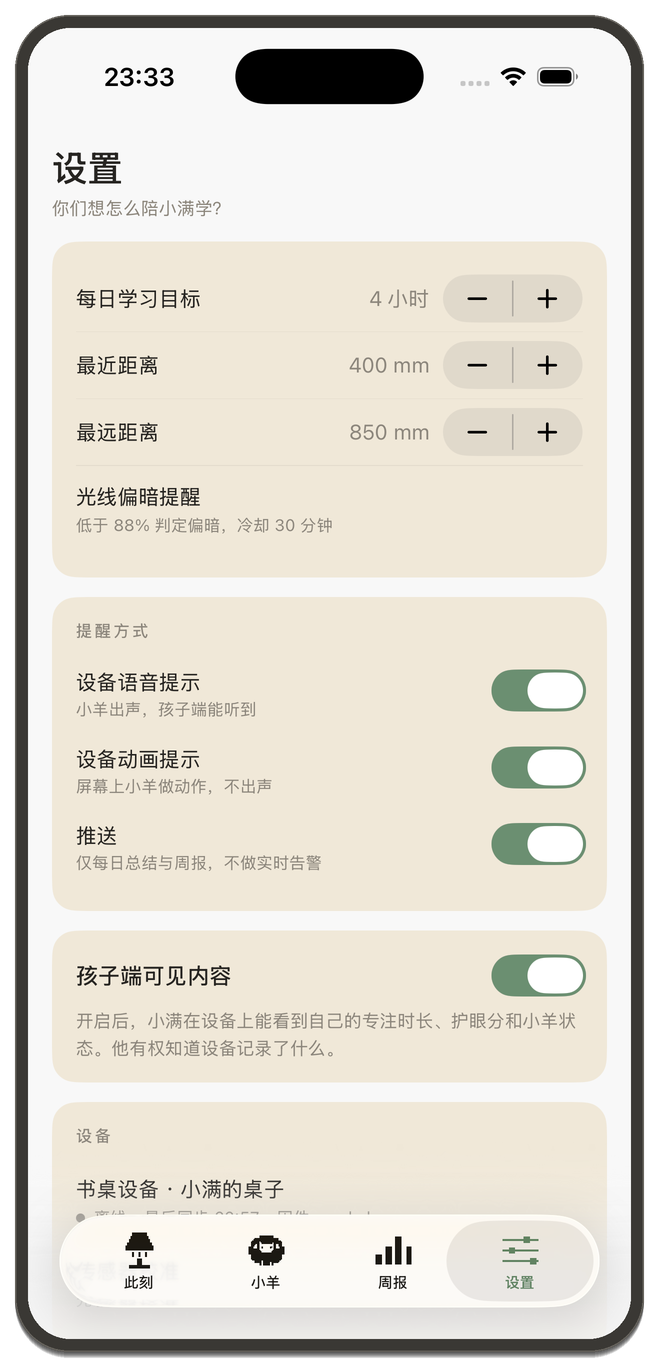
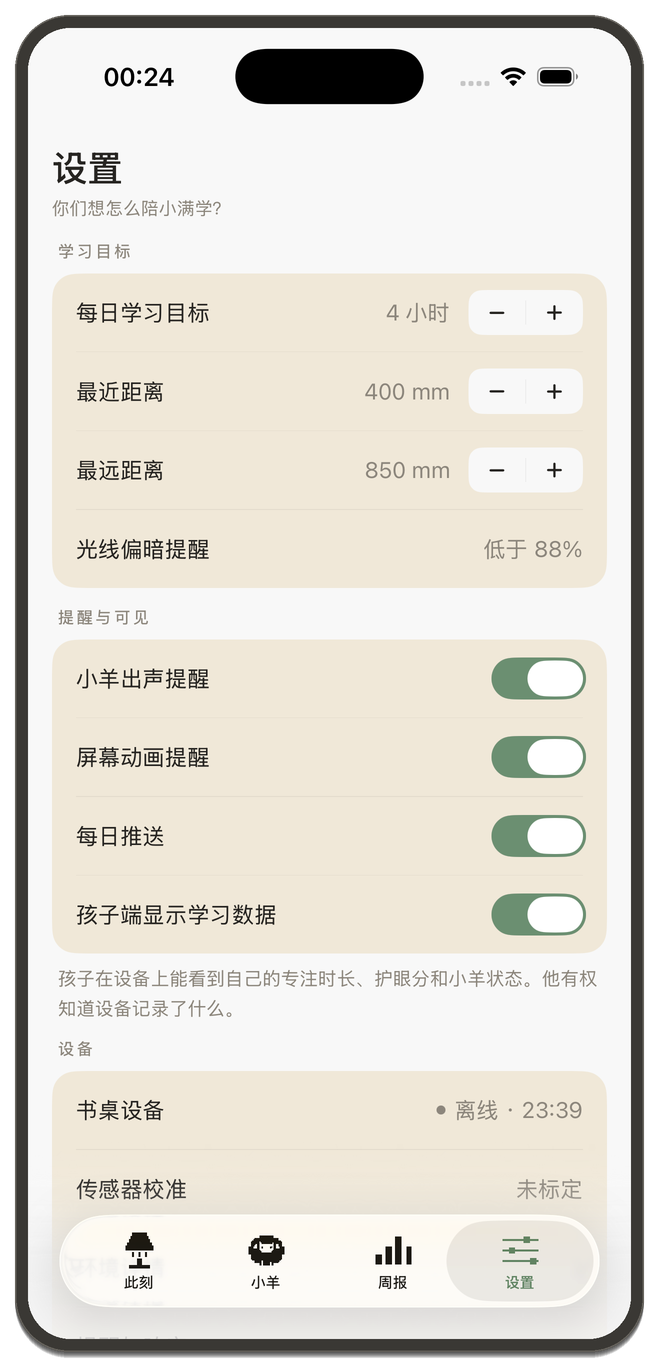
设置页改成分组列表，砍掉九处说明小字
原来八块奶油色块浮在近白底上，是全 App 黄色占比最高的一屏。「此刻」页
也是卡片堆，但那些卡片每张有一个大数字当锚点，色块是在给数据做底；设置页
卡片里全是「标题 + 副标题 + 控件」的行，行本身已经有分隔线做结构，再包一层
色块就是双重容器。而且四张卡三种结构：两张有组标题、两张没有。

- 组标题移到卡片外面，卡片只装行。八块合并成四组：
  学习目标 / 提醒与可见 / 设备 / 档案
- 「环境详情」「提醒与响应」两个独立色块并进「设备」组
- 说明性小字从九处砍到一处。开关名字改到自解释就不需要副标题：
  设备语音提示 → 小羊出声提醒，设备动画提示 → 屏幕动画提醒，推送 → 每日推送
  光线阈值那行改成右侧给值，和上面三行一致
  重设的说明移进确认弹窗（弹窗本来就有 message）
  唯一保留的是知情权那句 —— 它讲的是产品态度，不是在解释控件
- 行文字 14 → 15pt
- 自绘加减替换系统 Stepper：它的灰胶囊不属于这套色板里任何一个色，
  三个并排像三块补丁

putSettings 改成按下标取开关，不按标签文字 —— 标签文案一改匹配就错位。
已验证：关掉「每日推送」后端只有 push_on 变 0，另外三个没动。

diff --git a/apps/ios/Sources/Views/SettingsView.swift b/apps/ios/Sources/Views/SettingsView.swift
@@ -1,7 +1,14 @@
 import SwiftUI
 
-/// 把知情权放在设置的中间位置：「孩子端可见内容」用奶油卡片单独抬出来。
-/// 设备离线时不假装有数据。
+/// 设置页用分组列表，不用卡片堆。
+///
+/// 原来的问题：八块奶油色块浮在近白底上，是全 App 黄色占比最高的一屏。
+/// 「此刻」页也是卡片堆，但那些卡片每张有一个大数字当锚点，色块是在给数据
+/// 做底；设置页卡片里全是「标题 + 副标题 + 控件」的行，行本身已经有分隔线
+/// 做结构了，再包一层色块就是双重容器。
+///
+/// 现在：组标题放在卡片外面（浅底上），卡片只装行。八块合并成四组。
+/// 说明性小字从九处砍到一处 —— 控件名起对了就不需要副标题。
 struct SettingsView: View {
     @EnvironmentObject var store: Store
     @EnvironmentObject var profile: Profile
@@ -18,166 +25,196 @@ struct SettingsView: View {
             set: { v in
                 guard draft[keyPath: key] != v else { return }
                 draft[keyPath: key] = v
-                let next = draft
-                saving = true
-                Task {
-                    await store.saveSettings(next)
-                    saving = false
-                }
+                push()
             })
+    }
+
+    private func push() {
+        let next = draft
+        saving = true
+        Task { await store.saveSettings(next); saving = false }
     }
 
     var body: some View {
         let s = draft
         Page(title: "设置", sub: "你们想怎么陪\(profile.displayName)学？") {
-            Card {
-                VStack(spacing: 0) {
-                    Stepper(value: bind(\.goalHours), in: 1...12) {
-                        HStack {
-                            Text("每日学习目标").font(Theme.sans(14)).foregroundStyle(Theme.ink)
-                            Spacer()
-                            Text("\(s.goalHours) 小时").font(Theme.sans(14)).foregroundStyle(Theme.muted)
-                        }
-                    }
-                    .padding(.vertical, 6)
-                    div()
-                    Stepper(value: bind(\.distanceMin), in: 250...600, step: 25) {
-                        HStack {
-                            Text("最近距离").font(Theme.sans(14)).foregroundStyle(Theme.ink)
-                            Spacer()
-                            Text("\(s.distanceMin) mm").font(Theme.sans(14)).foregroundStyle(Theme.muted)
-                        }
-                    }
-                    .padding(.vertical, 6)
-                    div()
-                    Stepper(value: bind(\.distanceMax), in: 600...1200, step: 25) {
-                        HStack {
-                            Text("最远距离").font(Theme.sans(14)).foregroundStyle(Theme.ink)
-                            Spacer()
-                            Text("\(s.distanceMax) mm").font(Theme.sans(14)).foregroundStyle(Theme.muted)
-                        }
-                    }
-                    .padding(.vertical, 6)
-                    div()
-                    VStack(alignment: .leading, spacing: 4) {
-                        HStack {
-                            Text("光线偏暗提醒").font(Theme.sans(14)).foregroundStyle(Theme.ink)
-                            Spacer()
-                        }
-                        Text(s.lowLightHint).font(Theme.sans(11)).foregroundStyle(Theme.muted)
-                    }
-                    .padding(.vertical, 12)
-                }
+
+            group("学习目标") {
+                stepRow("每日学习目标", "\(s.goalHours) 小时",
+                        bind(\.goalHours), 1...12, 1)
+                div()
+                stepRow("最近距离", "\(s.distanceMin) mm",
+                        bind(\.distanceMin), 250...600, 25)
+                div()
+                stepRow("最远距离", "\(s.distanceMax) mm",
+                        bind(\.distanceMax), 600...1200, 25)
+                div()
+                plainRow("光线偏暗提醒", lightValue)
             }
 
-            Card {
-                VStack(alignment: .leading, spacing: 0) {
-                    Label2(t: "提醒方式").padding(.bottom, 10)
-                    ForEach(Array(s.channels.enumerated()), id: \.element.id) { i, c in
-                        HStack(alignment: .top) {
-                            VStack(alignment: .leading, spacing: 3) {
-                                Text(c.label).font(Theme.sans(14)).foregroundStyle(Theme.ink)
-                                Text(c.hint).font(Theme.sans(11)).foregroundStyle(Theme.muted)
-                            }
-                            Spacer()
-                            Toggle("", isOn: Binding(
-                                get: { draft.channels[i].on },
-                                set: { v in
-                                    guard draft.channels[i].on != v else { return }
-                                    draft.channels[i].on = v
-                                    let next = draft
-                                    saving = true
-                                    Task { await store.saveSettings(next); saving = false }
-                                })).labelsHidden().tint(Theme.accent)
-                        }
-                        .padding(.vertical, 9)
-                    }
-                }
-            }
-
-            // 知情权 —— 单独抬出来
-            Card {
-                VStack(alignment: .leading, spacing: 9) {
-                    HStack {
-                        Text("孩子端可见内容").font(Theme.sans(15, .medium)).foregroundStyle(Theme.ink)
-                        Spacer()
-                        Toggle("", isOn: bind(\.childVisible)).labelsHidden().tint(Theme.accent)
-                    }
-                    Text("开启后，\(profile.displayName)在设备上能看到自己的专注时长、护眼分和小羊状态。他有权知道设备记录了什么。")
-                        .font(Theme.sans(12)).foregroundStyle(Theme.muted).lineSpacing(4)
-                }
-            }
-
-            Card {
-                VStack(alignment: .leading, spacing: 0) {
-                    Label2(t: "设备").padding(.bottom, 10)
-                    VStack(alignment: .leading, spacing: 4) {
-                        Text(s.deviceName).font(Theme.sans(14)).foregroundStyle(Theme.ink)
-                        HStack(spacing: 6) {
-                            Circle().fill(store.snapshot.link == .online ? Theme.accent : Theme.muted)
-                                .frame(width: 6, height: 6)
-                            Text(store.snapshot.link == .online
-                                 ? "在线 · \(store.snapshot.lastSync) 同步 · 固件 \(s.firmware)"
-                                 : "离线 · 最后同步 \(store.snapshot.lastSync) · 固件 \(s.firmware)")
-                                .font(Theme.sans(11)).foregroundStyle(Theme.muted)
-                        }
-                    }
-                    .padding(.vertical, 10)
+            group("提醒与可见") {
+                ForEach(Array(s.channels.enumerated()), id: \.element.id) { i, c in
+                    toggleRow(c.label, Binding(
+                        get: { draft.channels.indices.contains(i) ? draft.channels[i].on : false },
+                        set: { v in
+                            guard draft.channels.indices.contains(i),
+                                  draft.channels[i].on != v else { return }
+                            draft.channels[i].on = v
+                            push()
+                        }))
                     div()
-                    VStack(alignment: .leading, spacing: 4) {
-                        Text("传感器校准").font(Theme.sans(14)).foregroundStyle(Theme.ink)
-                        Text(s.calibrated ? "已校准" : "光敏未标定 · 校准后才能显示照度数值")
-                            .font(Theme.sans(11)).foregroundStyle(Theme.muted)
-                    }
-                    .padding(.vertical, 10)
                 }
+                toggleRow("孩子端显示学习数据", bind(\.childVisible))
+            }
+            // 这一屏唯一保留的说明文字 —— 它讲的是产品的态度，不是在解释控件
+            note("孩子在设备上能看到自己的专注时长、护眼分和小羊状态。他有权知道设备记录了什么。")
+
+            group("设备") {
+                deviceRow
+                div()
+                plainRow("传感器校准", s.calibrated ? "已校准" : "未标定")
+                div()
+                NavigationLink { EnvView() }       label: { linkRow("环境详情") }
+                div()
+                NavigationLink { RemindersView() } label: { linkRow("提醒与响应") }
             }
 
-            NavigationLink { EnvView() }       label: { RowLink(title: "环境详情") }
-            NavigationLink { RemindersView() } label: { RowLink(title: "提醒与响应") }
-
-            Card {
-                VStack(alignment: .leading, spacing: 0) {
-                    Label2(t: "档案").padding(.bottom, 10)
-                    row("孩子", profile.titleLine)
-                    div()
-                    Button { confirmReset = true } label: {
-                        HStack {
-                            VStack(alignment: .leading, spacing: 4) {
-                                Text("重设").font(Theme.sans(14)).foregroundStyle(Theme.sick)
-                                Text("回到引导页重新建档。设备连接不受影响，云端记录也还在。")
-                                    .font(Theme.sans(11)).foregroundStyle(Theme.muted)
-                                    .multilineTextAlignment(.leading).lineSpacing(3)
-                            }
-                            Spacer()
-                        }
-                        .padding(.vertical, 12)
-                    }
-                }
+            group("档案") {
+                plainRow("孩子", profile.titleLine)
+                div()
+                Button { confirmReset = true } label: { linkRow("重设档案") }
             }
             .alert("重设档案？", isPresented: $confirmReset) {
                 Button("取消", role: .cancel) {}
                 Button("重设", role: .destructive) { profile.reset() }
             } message: {
-                Text("会回到引导页重新填名字。设备和云端的数据不会删除。")
+                Text("会回到引导页重新填名字。设备连接不受影响，云端记录也还在。")
             }
         }
         .task { draft = store.settings }
         .onChange(of: store.settings) { _, new in syncDraft(new) }
     }
 
+    // MARK: 组
+
+    /// 组标题放在卡片外面，卡片只装行 —— 这样卡片更紧凑，也不用每组都留标题空间
+    @ViewBuilder
+    private func group<C: View>(_ title: String, @ViewBuilder rows: () -> C) -> some View {
+        VStack(alignment: .leading, spacing: 8) {
+            Label2(t: title).padding(.leading, 4)
+            VStack(spacing: 0) { rows() }
+                .padding(.horizontal, 16)
+                .background(Theme.card)
+                .clipShape(RoundedRectangle(cornerRadius: Theme.cardRadius, style: .continuous))
+        }
+    }
+
+    private func note(_ text: String) -> some View {
+        Text(text)
+            .font(Theme.sans(12.5)).foregroundStyle(Theme.muted)
+            .lineSpacing(5)
+            .padding(.horizontal, 4)
+            .padding(.top, -4)
+    }
+
+    // MARK: 行
+
+    private var lightValue: String {
+        // 原来这里挂着一整行 11pt 小字在解释阈值，改成和上面三行一样右侧给值
+        s(of: draft.lowLightHint)
+    }
+    private func s(of hint: String) -> String {
+        // "低于 88% 判定偏暗，冷却 30 分钟" → "低于 88%"
+        hint.components(separatedBy: "判定").first?
+            .trimmingCharacters(in: .whitespaces) ?? hint
+    }
+
+    private func plainRow(_ label: String, _ value: String) -> some View {
+        HStack {
+            Text(label).font(Theme.sans(15)).foregroundStyle(Theme.ink)
+            Spacer()
+            Text(value).font(Theme.sans(15)).foregroundStyle(Theme.muted)
+        }
+        .frame(height: 52)
+    }
+
+    private func linkRow(_ label: String) -> some View {
+        HStack {
+            Text(label).font(Theme.sans(15)).foregroundStyle(Theme.ink)
+            Spacer()
+            Image(systemName: "chevron.right")
+                .font(.system(size: 12, weight: .medium)).foregroundStyle(Theme.muted)
+        }
+        .frame(height: 52)
+        .contentShape(Rectangle())
+    }
+
+    private func toggleRow(_ label: String, _ on: Binding<Bool>) -> some View {
+        HStack {
+            Text(label).font(Theme.sans(15)).foregroundStyle(Theme.ink)
+            Spacer()
+            Toggle("", isOn: on).labelsHidden().tint(Theme.accent)
+        }
+        .frame(height: 52)
+    }
+
+    private func stepRow(_ label: String, _ value: String,
+                         _ binding: Binding<Int>,
+                         _ range: ClosedRange<Int>, _ step: Int) -> some View {
+        HStack(spacing: 12) {
+            Text(label).font(Theme.sans(15)).foregroundStyle(Theme.ink)
+            Spacer(minLength: 8)
+            Text(value).font(Theme.sans(15)).foregroundStyle(Theme.muted)
+            stepper(binding, range, step)
+        }
+        .frame(height: 52)
+    }
+
+    /// 自绘加减，不用系统 Stepper —— 它的灰胶囊不属于这套色板里任何一个色，
+    /// 三个并排像三块补丁。这里用页面底色做浅凹槽。
+    private func stepper(_ v: Binding<Int>, _ range: ClosedRange<Int>, _ step: Int) -> some View {
+        HStack(spacing: 0) {
+            stepButton("minus", v.wrappedValue > range.lowerBound) {
+                v.wrappedValue = max(range.lowerBound, v.wrappedValue - step)
+            }
+            Rectangle().fill(Theme.ink.opacity(0.10)).frame(width: 0.5, height: 16)
+            stepButton("plus", v.wrappedValue < range.upperBound) {
+                v.wrappedValue = min(range.upperBound, v.wrappedValue + step)
+            }
+        }
+        .background(Theme.bg)
+        .clipShape(RoundedRectangle(cornerRadius: 9, style: .continuous))
+    }
+
+    private func stepButton(_ icon: String, _ enabled: Bool, _ act: @escaping () -> Void) -> some View {
+        Button(action: act) {
+            Image(systemName: icon)
+                .font(.system(size: 12, weight: .semibold))
+                .foregroundStyle(enabled ? Theme.ink : Theme.ink.opacity(0.22))
+                .frame(width: 38, height: 30)
+                .contentShape(Rectangle())
+        }
+        .disabled(!enabled)
+    }
+
+    private var deviceRow: some View {
+        let on = store.snapshot.link == .online
+        return HStack {
+            Text("书桌设备").font(Theme.sans(15)).foregroundStyle(Theme.ink)
+            Spacer()
+            HStack(spacing: 6) {
+                Circle().fill(on ? Theme.accent : Theme.muted).frame(width: 6, height: 6)
+                Text(on ? "在线 · \(store.snapshot.lastSync)"
+                        : "离线 · \(store.snapshot.lastSync)")
+                    .font(Theme.sans(15)).foregroundStyle(Theme.muted)
+            }
+        }
+        .frame(height: 52)
+    }
+
     private func syncDraft(_ new: Settings) {
         // 正在写的时候不要被服务端的旧值盖回来
         if !saving { draft = new }
-    }
-
-    private func row(_ l: String, _ v: String) -> some View {
-        HStack {
-            Text(l).font(Theme.sans(14)).foregroundStyle(Theme.ink)
-            Spacer()
-            Text(v).font(Theme.sans(14)).foregroundStyle(Theme.muted)
-        }
-        .padding(.vertical, 12)
     }
     private func div() -> some View { Rectangle().fill(Theme.line2).frame(height: 0.5) }
 }

diff --git a/services/worker/src/mock.ts b/services/worker/src/mock.ts
@@ -101,9 +101,11 @@ export const MOCK: Record<string, unknown> = {
     goalHours: 4, distanceMin: 400, distanceMax: 850,
     lowLightHint: "按相对百分比判定，冷却 30 分钟",
     channels: [
-      { label: "设备语音提示", hint: "小羊出声，孩子端能听到", on: true },
-      { label: "设备动画提示", hint: "屏幕上小羊做动作，不出声", on: true },
-      { label: "推送", hint: "仅每日总结与周报，不做实时告警", on: true },
+      // 名字要自解释 —— 设置页原来每一行下面都挂一条 11pt 的小字在解释
+      // 这一行是什么意思，一屏九处。名字起对了就不需要副标题。
+      { label: "小羊出声提醒", hint: "", on: true },
+      { label: "屏幕动画提醒", hint: "", on: true },
+      { label: "每日推送", hint: "仅总结与周报，不做实时告警", on: true },
     ],
     childVisible: true,
     deviceName: "书桌设备 · 小满的桌子",

diff --git a/apps/ios/Sources/DataSource.swift b/apps/ios/Sources/DataSource.swift
@@ -86,9 +86,10 @@ struct APISource: StudyDataSource {
             "goalHours": s.goalHours,
             "distanceMin": s.distanceMin,
             "distanceMax": s.distanceMax,
-            "voiceOn": s.channels.first(where: { $0.label.contains("语音") })?.on ?? true,
-            "animOn": s.channels.first(where: { $0.label.contains("动画") })?.on ?? true,
-            "pushOn": s.channels.first(where: { $0.label.contains("推送") })?.on ?? true,
+            // 按下标取，不按标签文字 —— 标签是可以改文案的，改一次匹配就错位
+            "voiceOn": s.channels.indices.contains(0) ? s.channels[0].on : true,
+            "animOn": s.channels.indices.contains(1) ? s.channels[1].on : true,
+            "pushOn": s.channels.indices.contains(2) ? s.channels[2].on : true,
             "childVisible": s.childVisible,
         ])
     }

diff --git a/apps/ios/Sources/MockData.swift b/apps/ios/Sources/MockData.swift
@@ -125,9 +125,9 @@ enum Mock {
         goalHours: 4, distanceMin: 400, distanceMax: 850,
         lowLightHint: "按相对百分比判定，冷却 30 分钟",
         channels: [
-            .init(label: "设备语音提示", hint: "小羊出声，孩子端能听到", on: true),
-            .init(label: "设备动画提示", hint: "屏幕上小羊做动作，不出声", on: true),
-            .init(label: "推送", hint: "仅每日总结与周报，不做实时告警", on: true),
+            .init(label: "小羊出声提醒", hint: "", on: true),
+            .init(label: "屏幕动画提醒", hint: "", on: true),
+            .init(label: "每日推送", hint: "仅总结与周报，不做实时告警", on: true),
         ],
         childVisible: true,
         deviceName: "书桌设备 · 小满的桌子",
